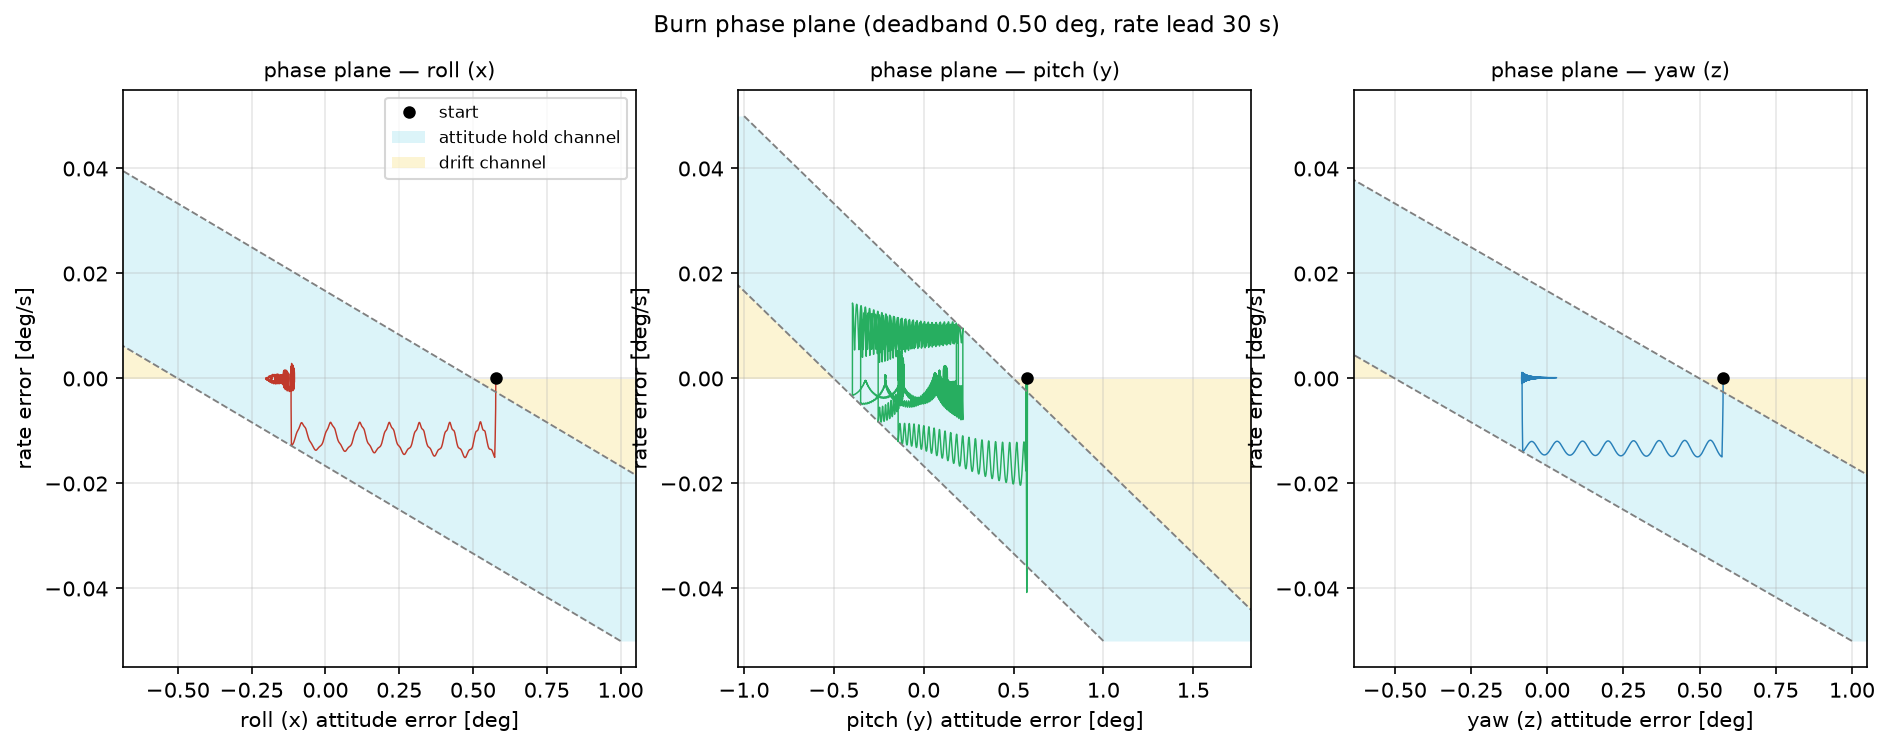
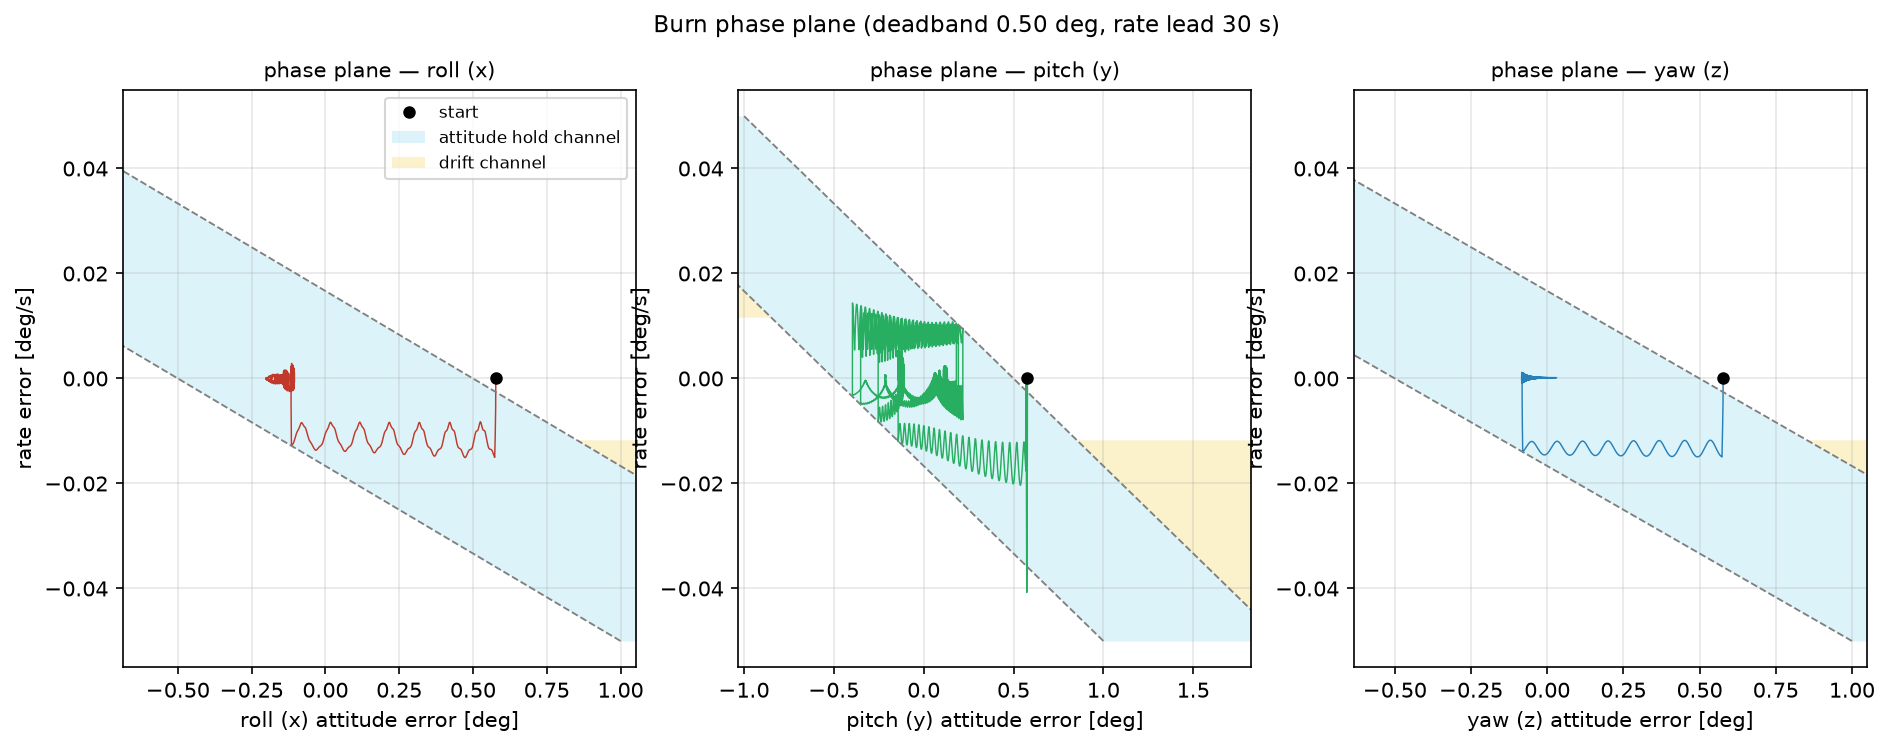
Correct drift-channel geometry on phase-plane plots
Drift channels are horizontal rate bands outside the switching lines, bounded by the hysteresis drift rate (1-h)*db/lead and the rate limit - not wedges touching zero rate (near-zero rate outside the deadband is firing region).

diff --git a/src/spacecraft_acs/plotting.py b/src/spacecraft_acs/plotting.py
@@ -327,15 +327,20 @@ def plot_burn(result, output_dir: Path, prefix: str = "burn") -> list[Path]:
             om_line, -db - lead * om_line, db - lead * om_line,
             color="#76d7ea", alpha=0.25, lw=0, label="attitude hold channel",
         )
-        om_pos = np.linspace(0.0, max(om.max(), rl), 20)
+        # Drift channels: horizontal rate bands outside the switching lines
+        # where the state coasts back toward the hold channel — bounded
+        # below by the drift rate the hysteresis establishes,
+        # (1-h)*db/lead, and above by the phase-plane rate limit.
+        w_dr = (1.0 - cfg.stationkeeping.phase_plane.hysteresis) * db / lead
+        om_pos = np.linspace(w_dr, max(om.max(), rl), 20)
         ax.fill_betweenx(
             om_pos, x_lo, -db - lead * om_pos,
-            color="#f9e79f", alpha=0.45, lw=0, label="drift channel",
+            color="#f9e79f", alpha=0.55, lw=0, label="drift channel",
         )
-        om_neg = np.linspace(min(om.min(), -rl), 0.0, 20)
+        om_neg = np.linspace(min(om.min(), -rl), -w_dr, 20)
         ax.fill_betweenx(
             om_neg, db - lead * om_neg, x_hi,
-            color="#f9e79f", alpha=0.45, lw=0,
+            color="#f9e79f", alpha=0.55, lw=0,
         )
         for s in (db, -db):
             ax.plot(s - lead * om_line, om_line, ls="--", color="0.5", lw=0.9)